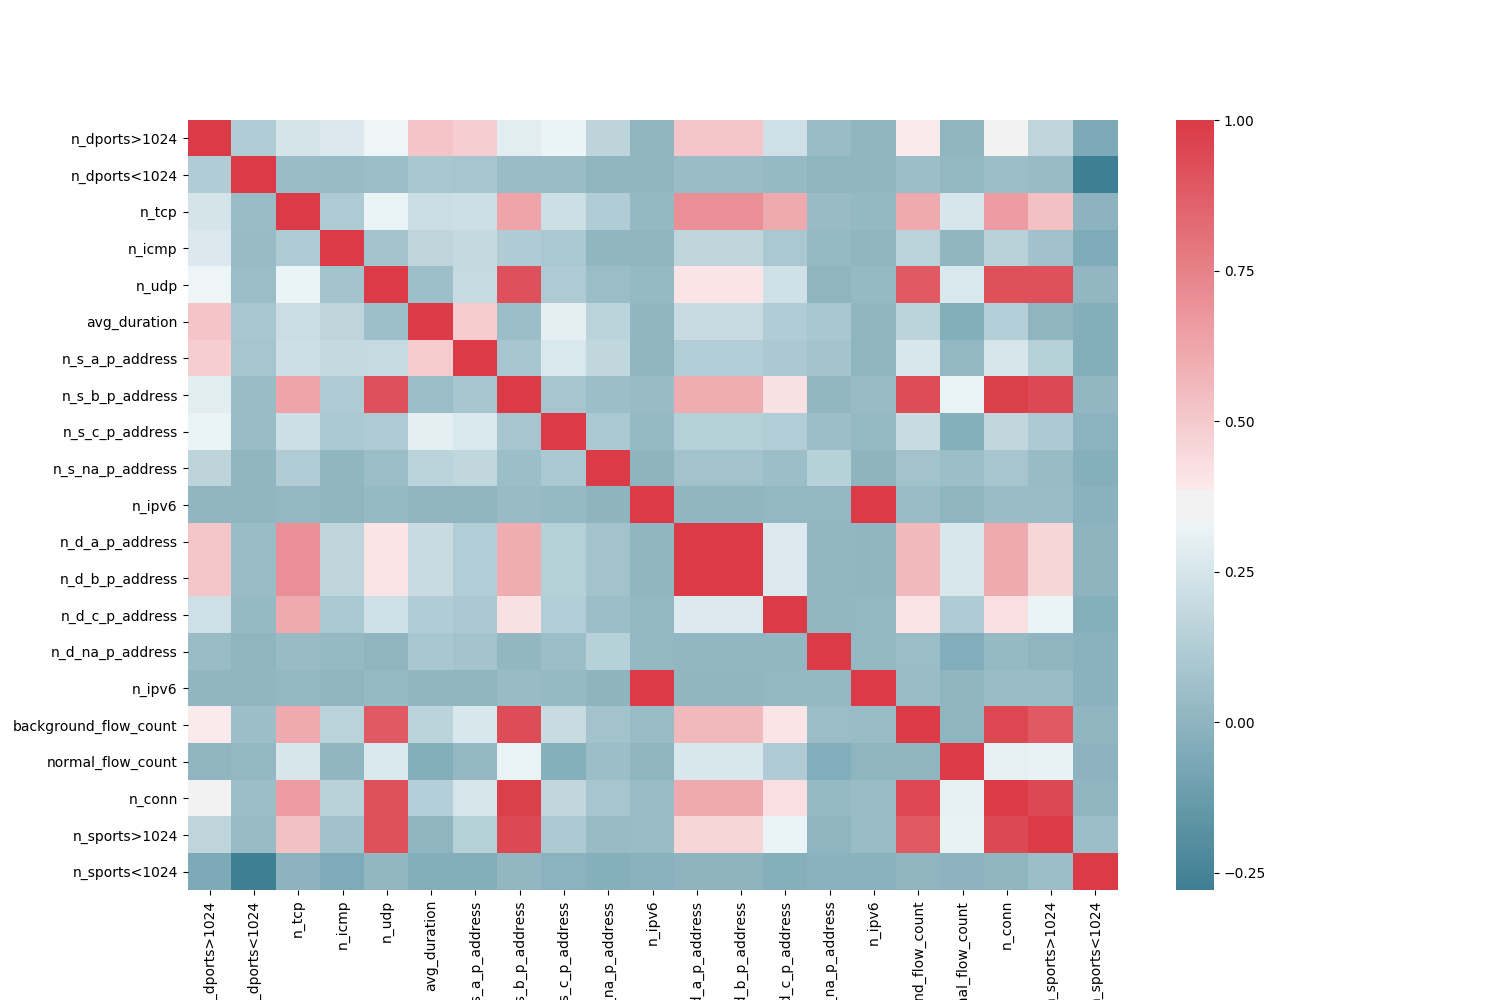
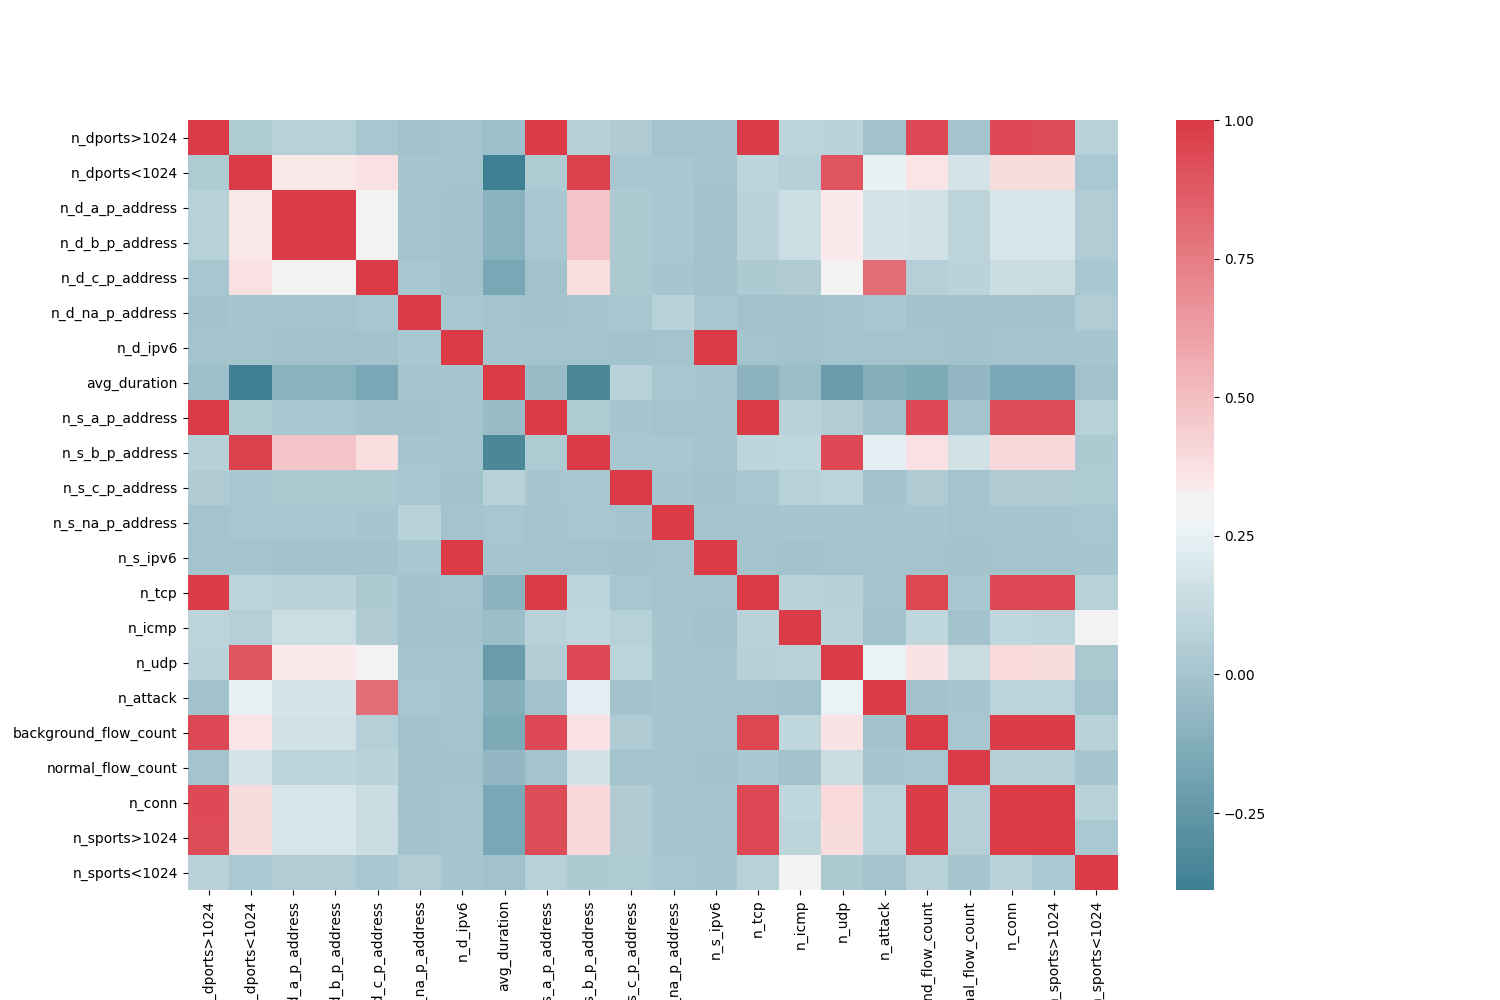
regen heatmaps, with fixed features

diff --git a/src/heatmaps.py b/src/heatmaps.py
@@ -39,23 +39,31 @@ def avg_duration(x):
     return np.average(x)
     
 def n_dports_gt1024(x):
-    if x.size == 0: return 0
-    return reduce((lambda a,b: a+b if b>1024 else a),x)
+    count = 0
+    for p in x:
+        if p>1024: count += 1
+    return count
 n_dports_gt1024.__name__ = 'n_dports>1024'
 
 def n_dports_lt1024(x):
-    if x.size == 0: return 0
-    return reduce((lambda a,b: a+b if b<1024 else a),x)
+    count = 0
+    for p in x:
+        if p<1024: count += 1
+    return count
 n_dports_lt1024.__name__ = 'n_dports<1024'
 
 def n_sports_gt1024(x):
-    if x.size == 0: return 0
-    return reduce((lambda a,b: a+b if b>1024 else a),x)
+    count = 0
+    for p in x:
+        if p>1024: count += 1
+    return count
 n_sports_gt1024.__name__ = 'n_sports>1024'
 
 def n_sports_lt1024(x):
-    if x.size == 0: return 0
-    return reduce((lambda a,b: a+b if b<1024 else a),x)
+    count = 0
+    for p in x:
+        if p<1024: count += 1
+    return count
 n_sports_lt1024.__name__ = 'n_sports<1024'
 
 def label_atk_v_norm(x):
@@ -146,17 +154,36 @@ def n_d_na_p_address(x):
         if classify_ip(i) == 'N/A': count += 1
     return count
 
-def n_ipv6(x):
+def n_s_ipv6(x):
     count = 0
     for i in x:
         if classify_ip(i) == 'ipv6': count += 1
     return count
-    
+
+def n_d_ipv6(x):
+    count = 0
+    for i in x:
+        if classify_ip(i) == 'ipv6': count += 1
+    return count
+
+def n_attack(x):
+    '''
+    Count the number of attacks,
+    to do this we need to simply count number of flows labeled with botnet
+    Do not use this feature for model training.
+    '''
+    count = 0
+    for i in x:
+        if 'Botnet' in i: count += 1
+    return count
+
+
 
 # The datastructure to hold our feature extraction funcitons, which will
 # get applied to each aggregation of the datasets.
 extractors = {
     'Label'   : [label_atk_v_norm,
+                 n_attack,
                  background_flow_count,
                  normal_flow_count,
                  n_conn,
@@ -173,13 +200,13 @@ extractors = {
                  n_s_b_p_address,
                  n_s_c_p_address,
                  n_s_na_p_address,
-                 n_ipv6,
+                 n_s_ipv6,
                 ],
     'DstAddr' : [n_d_a_p_address,
                  n_d_b_p_address,
                  n_d_c_p_address,
                  n_d_na_p_address,
-                 n_ipv6,
+                 n_d_ipv6,
                 ],
     'Proto'   : [n_tcp,
                  n_icmp,
@@ -187,8 +214,6 @@ extractors = {
                 ],
 }
 
-print('Processing...')
-progress = ''
 i = 0
 for f in files:
     df = pd.read_csv(os.path.join(directory,f).decode('utf8'), low_memory=False)
@@ -214,16 +239,6 @@ for f in files:
             yticklabels=corr.columns.values,
             ax=ax,
             label='CTU-13-Binet {} Heatmap'.format(i))
-    plt.savefig(os.path.join('..','plots','hm{}'.format(i)))
-    #plts.append(p)
-    progress = progress + '#' * 6
-    sys.stdout.write('%d/13 Files %s\r' % (i,progress))
-    sys.stdout.flush()
+    plt.savefig(os.path.join('..','plots','hm{}'.format(i+1)))
     i += 1
 
-sys.stdout.write('Finished')
-sys.stdout.flush()
-    # j = 0
-    # for p in plts:
-    #     p.savefig(os.path.join('..','plots','hm{}'.format(j)))
-    #     j += 1
